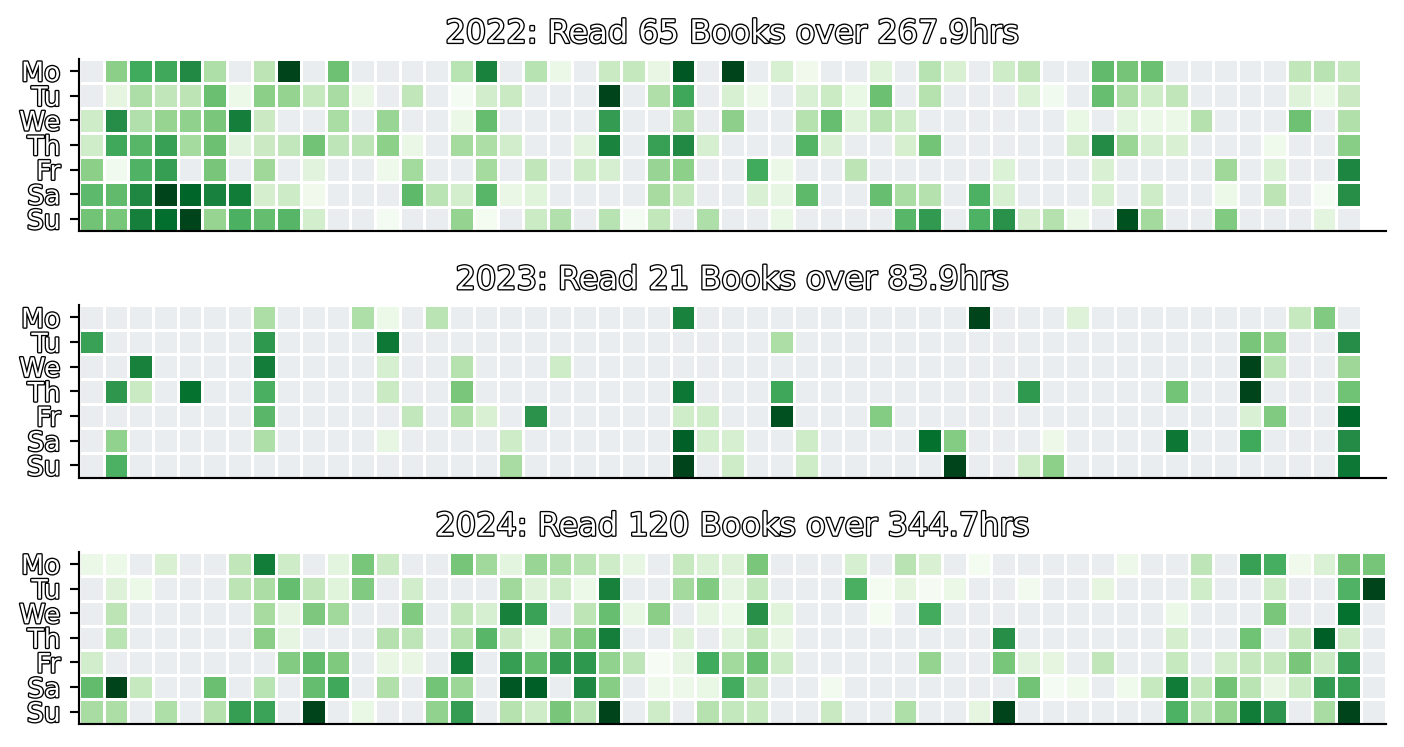
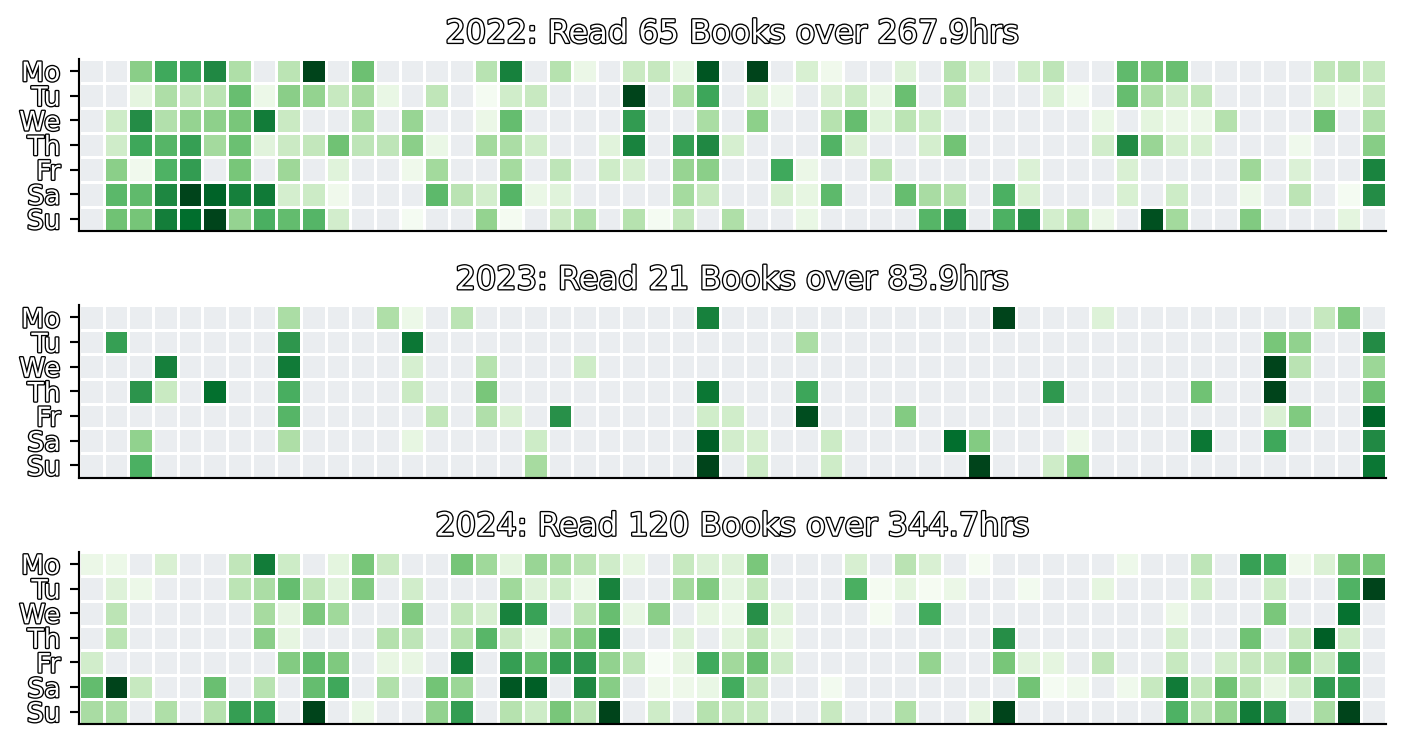
Update reading plots
- Consistently display first and last weeks
- Base color on & before current date  (mean & standard deviation uses 0s)

diff --git a/docs/books/book-love_triangle–_how_trigonometry_shapes_the_world.html b/docs/books/book-love_triangle–_how_trigonometry_shapes_the_world.html
@@ -232,13 +232,15 @@ Figure&nbsp;1: Reading done for Love Triangle: How Trigonometry Shapes the World
 <p><img src="https://books.google.com/books/content?id=q8HMEAAAQBAJ&amp;printsec=frontcover&amp;img=2.png" class="img-fluid"></p>
 </div>
 <div class="quarto-layout-cell" style="flex-basis: 70.0%;justify-content: flex-start;">
-<p><strong>Overview</strong> <br> <br> AN INSTANT NEW YORK TIMES BESTSELLER! An ode to triangles, the shape that makes our lives possible Trigonometry is perhaps the most essential concept humans have ever devised. The simple yet versatile triangle allows us to record music, map the world, launch rockets into space, and be slightly less bad at pool. Triangles underpin our day-to-day lives and civilization as we know it. In Love Triangle, Matt Parker argues we should all show a lot more love for triangles, along with all the useful trigonometry and geometry they enable. To prove his point, he uses triangles to create his own digital avatar, survive a harrowing motorcycle ride, cut a sandwich, fall in love, measure tall buildings in a few awkward bounds, and make some unusual art. Along the way, he tells extraordinary and entertaining stories of the mathematicians, engineers, and philosophers—starting with Pythagoras—who dared to take triangles seriously. This is the guide you should have had in high school—a lively and definitive answer to “Why do I need to learn about trigonometry?” Parker reveals triangles as the hidden pattern beneath the surface of the contemporary world. Like love, triangles actually are all around. And in the air. And they’re all you need. <br> <br></p>
+<p><strong>Overview</strong> <br> <br> An ode to triangles, the shape that makes our lives possible Trigonometry is perhaps the most essential concept humans have ever devised. The simple yet versatile triangle allows us to record music, map the world, launch rockets into space, and be slightly less bad at pool. Triangles underpin our day-to-day lives and civilization as we know it. <br> In Love Triangle, Matt Parker argues we should all show a lot more love for triangles, along with all the useful trigonometry and geometry they enable. To prove his point, he uses triangles to create his own digital avatar, survive a harrowing motorcycle ride, cut a sandwich, fall in love, measure tall buildings in a few awkward bounds, and make some unusual art. Along the way, he tells extraordinary and entertaining stories of the mathematicians, engineers, and philosophers—starting with Pythagoras—who dared to take triangles seriously. This is the guide you should have had in high school—a lively and definitive answer to “Why do I need to learn about trigonometry?” Parker reveals triangles as the hidden pattern beneath the surface of the contemporary world. Like love, triangles actually are all around. And in the air. And they’re all you need. <br> <br></p>
 </div>
 </div>
 </div>
-<p><strong><em>READING</em></strong></p>
-<p>READING</p>
-<p><strong>READING</strong></p>
+<p><strong><em>Matt Parker knows their way around righting triangle puns</em></strong></p>
+<p>This is the third book I read by Matt Parker and my first owned (signed!) from them! I’ve been watching them on YouTube (on <a href="https://www.youtube.com/@numberphile">Numberphile</a> &amp; Matt’s own channel <a href="https://www.youtube.com/@standupmaths">Stand-up Maths</a>) and I can feel the personality come out of the page. (But maybe that’s because I’ve watched their videos for so long.)</p>
+<p>It really goes about showing that triangles are really everything (and <em>‘every triangle is a love triangle when you love triangles’</em>).</p>
+<p>I think this is book (&amp; really all that Matt Parker does) is so entertaining for a casual mathematical audience. I do hope all the silliness and seriousness they bring never ends.</p>
+<p><strong>Love the continuing ‘gag’ of using <em>unconventional</em> page numbering– making it not easy to track</strong></p>
 <hr>
 <div class="callout callout-style-default callout-note no-icon callout-titled">
 <div class="callout-header d-flex align-content-center">
@@ -250,7 +252,7 @@ Bluesky Comments
 </div>
 </div>
 <div class="callout-body-container callout-body">
-<bluesky-comments-section post="at://did:plc:jfda6xfy4ncaf72omkvrbkko/app.bsky.feed.post/3lajzumuue22c"></bluesky-comments-section>
+<bluesky-comments-section post="at://did:plc:jfda6xfy4ncaf72omkvrbkko/app.bsky.feed.post/3lf6pqfdhrv2a"></bluesky-comments-section>
 </div>
 </div>
 

diff --git a/books/_help_reading.py b/books/_help_reading.py
@@ -103,12 +103,35 @@ def get_year_data(data, year=2024):
     date_range = pd.date_range(start=f'{year}-01-01', end=f'{year}-12-31')
     # Create a DataFrame with all dates, weeks, and weekdays (0 activity)
     df_full = pd.DataFrame({'date': date_range})
-    df_full['week'] = df_full['date'].dt.isocalendar().week -1 #isocalendar is more accurate
+    # isocalendar will range from 0 to 51
+    df_full['week'] = df_full['date'].dt.isocalendar().week
+    # first few days could loop to prev year's week 52; change to prev week num
+    df_full.loc[
+        ((df_full['date'].dt.month == 1) &
+        (df_full['week'] == 52)),
+        'week'
+    ] = df_full['week'].min() - 1
+    # Last few days could loop to next year's week 1; change to next week num
+    df_full.loc[
+        ((df_full['date'].dt.month == 12) &
+        (df_full['week'] == 1)),
+        'week'
+    ] = df_full['week'].max() + 1
     df_full['weekday'] = df_full['date'].dt.weekday
 
     df_orig = pd.DataFrame(columns=['weekday', 'week', 'activity'])
     # Offset by one for display (starts at zero)
-    df_orig['week'] = df_yr.start.dt.strftime('%W').astype(int) - 1
+    df_orig['week'] = df_yr.start.dt.isocalendar().week
+    df_orig.loc[
+        ((df_yr.start.dt.month == 1) &
+        (df_orig['week'] == 52)),
+        'week'
+    ] = df_orig['week'].min() - 1
+    df_orig.loc[
+        ((df_yr.start.dt.month == 12) &
+        (df_orig['week'] == 1)),
+        'week'
+    ] = df_orig['week'].max() + 1
     # Monday is the first day of the week now (starts at zero)
     df_orig['weekday'] = (df_yr.start.dt.strftime('%w').astype(int) - 1) % 7
     df_orig['activity'] = df_yr.duration_frac
